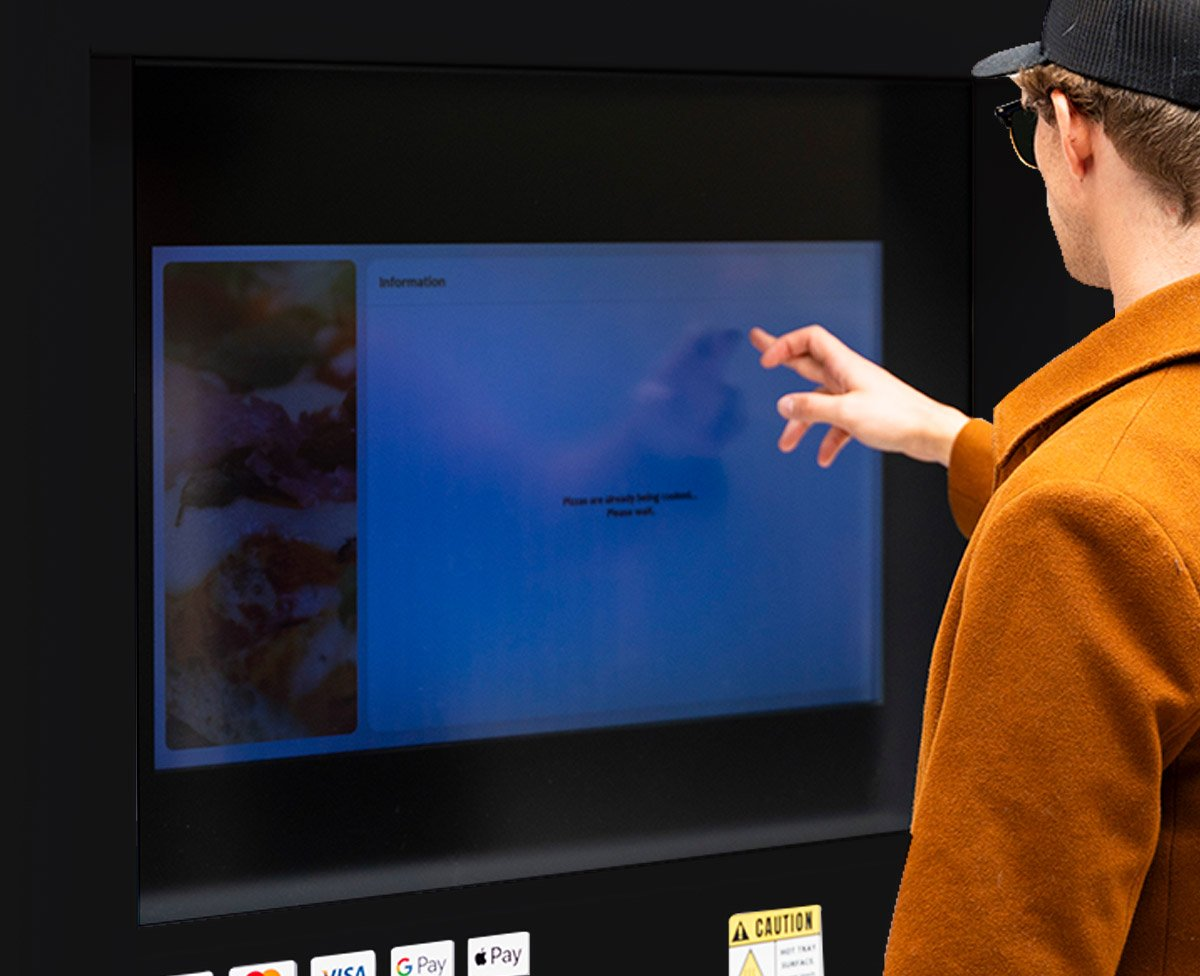
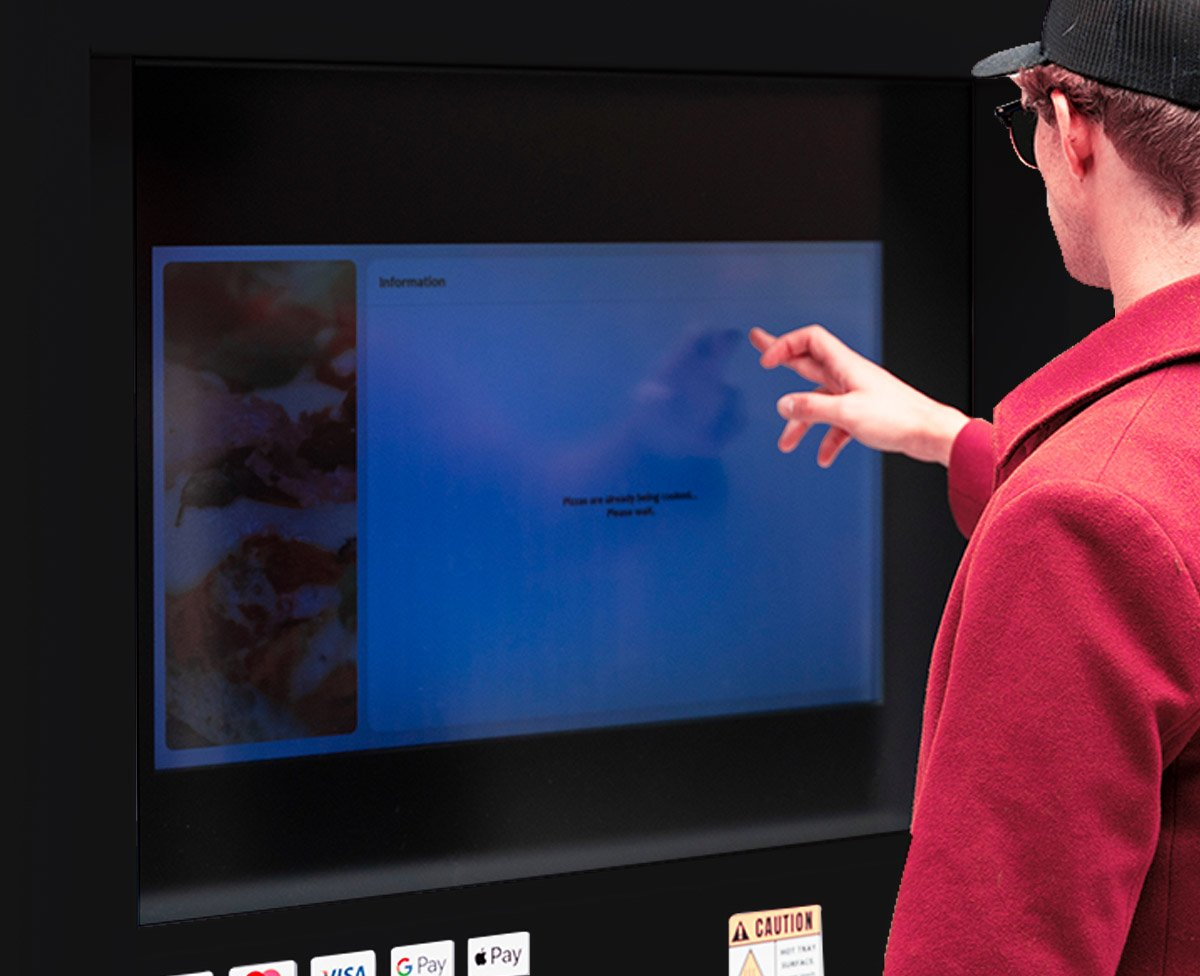
images

diff --git a/public/landing-pages/kiosk-atm.html b/public/landing-pages/kiosk-atm.html
@@ -231,12 +231,12 @@
       <figcaption><h3>Tap And Go</h3><span class="kshow-rule"><i></i></span><p>Tap, insert or swipe. Accepts cards, mobile wallets and campus meal plans.</p></figcaption>
     </figure>
     <figure class="kb-t">
-      <div class="kshow-ph"><img src="Images/kiosks/indoor-screen.jpg?v=2" alt="Customer using the touchscreen" loading="lazy"></div>
+      <div class="kshow-ph"><img src="Images/kiosks/indoor-screen.jpg?v=3" alt="Customer using the touchscreen" loading="lazy"></div>
       <figcaption><h3>Ad Revenue, Built In</h3><span class="kshow-rule"><i></i></span><p>Run ads on the 32&quot; display between orders and turn every kiosk into a media channel.</p></figcaption>
     </figure>
     <figure class="kb-t">
-      <div class="kshow-ph"><span>Side window · Image</span></div>
-      <figcaption><h3>Robot On Show</h3><span class="kshow-rule"><i></i></span><p>A side window shows the robotic arm preparing each pizza.</p></figcaption>
+      <div class="kshow-ph"><img src="Images/kiosks/atm-night.jpg" alt="ATM Kiosk at night with its glowing edge light and backlit sign" loading="lazy"></div>
+      <figcaption><h3>Lit After Dark</h3><span class="kshow-rule"><i></i></span><p>A glowing edge light and backlit sign keep it easy to find all night.</p></figcaption>
     </figure>
     <figure class="kb-t">
       <div class="kshow-ph"><img src="Images/kiosks/indoor-interior.jpg?v=2" alt="Close-up of the pizza storage racks and robotic lift inside the kiosk" loading="lazy"></div>

diff --git a/public/landing-pages/kiosk-outdoor.html b/public/landing-pages/kiosk-outdoor.html
@@ -223,7 +223,7 @@
 <!-- image slots: put an <img> inside each .kshow-ph to replace its placeholder -->
   <section class="kb" aria-label="Outdoor Kiosk highlights">
     <figure class="kb-t">
-      <div class="kshow-ph"><span>Whole kiosk · Image</span></div>
+      <div class="kshow-ph"><img src="Images/kiosks/outdoor-kiosk.jpg" alt="Outdoor Kiosk in a parking lot, wrapped in a client brand" loading="lazy"></div>
       <figcaption><h3>The Whole Kiosk</h3><span class="kshow-rule"><i></i></span><p>A complete pizzeria in a single unit, built to stand outdoors year-round.</p></figcaption>
     </figure>
     <figure class="kb-t">
@@ -231,7 +231,7 @@
       <figcaption><h3>Tap And Go</h3><span class="kshow-rule"><i></i></span><p>Tap, insert or swipe. Accepts cards, mobile wallets and campus meal plans.</p></figcaption>
     </figure>
     <figure class="kb-t">
-      <div class="kshow-ph"><img src="Images/kiosks/indoor-screen.jpg?v=2" alt="Customer using the touchscreen" loading="lazy"></div>
+      <div class="kshow-ph"><img src="Images/kiosks/indoor-screen.jpg?v=3" alt="Customer using the touchscreen" loading="lazy"></div>
       <figcaption><h3>Ad Revenue, Built In</h3><span class="kshow-rule"><i></i></span><p>Run ads on the 32&quot; display between orders and turn every kiosk into a media channel.</p></figcaption>
     </figure>
     <figure class="kb-t">

diff --git a/public/landing-pages/kiosk-indoor.html b/public/landing-pages/kiosk-indoor.html
@@ -231,7 +231,7 @@
       <figcaption><h3>Tap And Go</h3><span class="kshow-rule"><i></i></span><p>Tap, insert or swipe. Accepts cards, mobile wallets and campus meal plans.</p></figcaption>
     </figure>
     <figure class="kb-t">
-      <div class="kshow-ph"><img src="Images/kiosks/indoor-screen.jpg?v=2" alt="Customer using the touchscreen" loading="lazy"></div>
+      <div class="kshow-ph"><img src="Images/kiosks/indoor-screen.jpg?v=3" alt="Customer using the touchscreen" loading="lazy"></div>
       <figcaption><h3>Ad Revenue, Built In</h3><span class="kshow-rule"><i></i></span><p>Run ads on the 32&quot; display between orders and turn every kiosk into a media channel.</p></figcaption>
     </figure>
     <figure class="kb-t">
